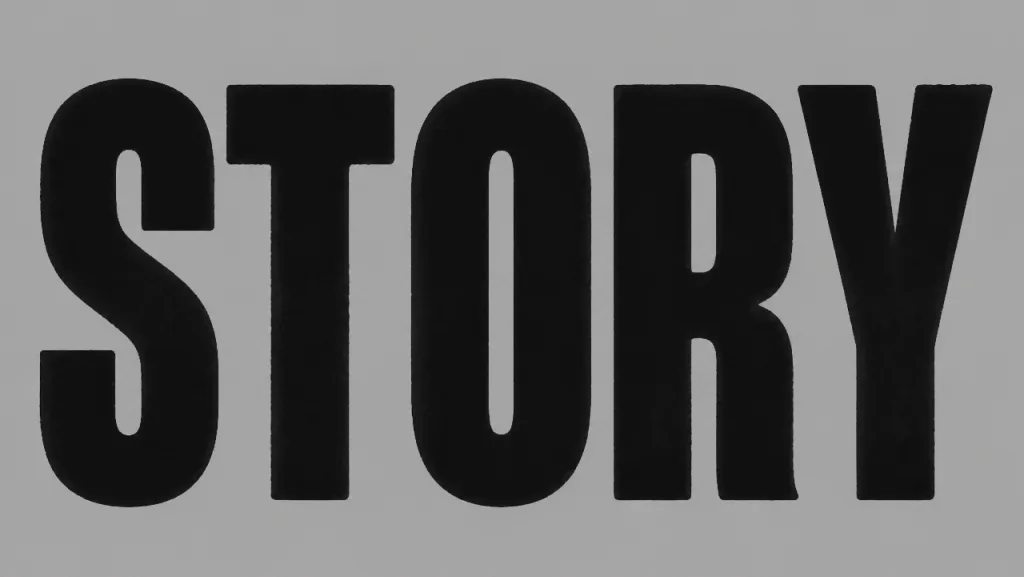
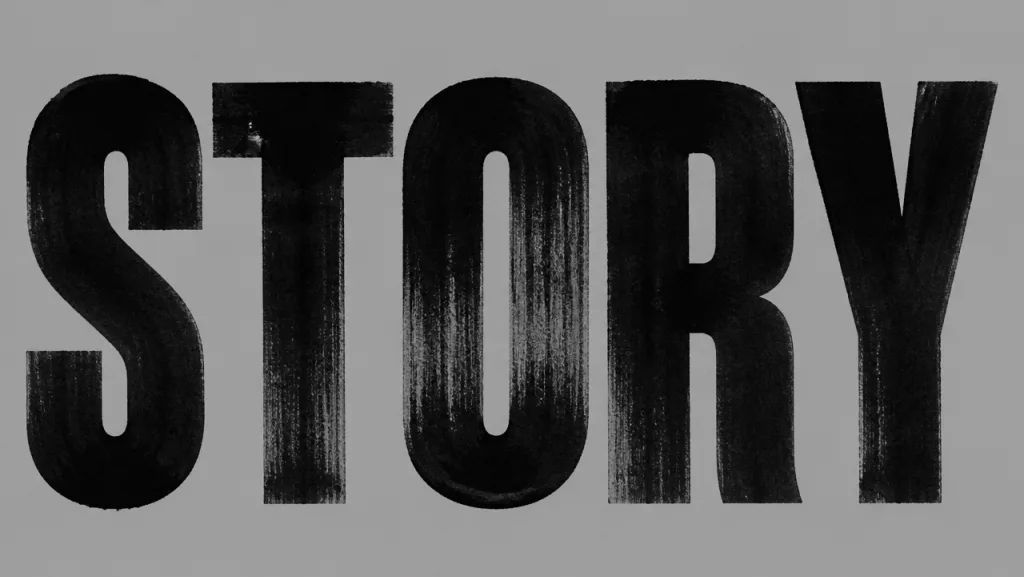
fix(lettering): the handwritten treatment survives being shrunk
At the ~150px tile the picker actually renders, the old swatch read as a
flat black slab — fill grey-level standard deviation 8.5/255. The cause was
in the phrase, not the render: every word of "slightly uneven edges, soft
ink bleed, organic feel" describes the letters' EDGE contour, and
downscaling is a low-pass filter. It destroys contour and keeps variation
across the fill, so the style had no thumbnail-scale signature at all.

So the fix is to the style, not to the picture. Describing the ink INSIDE
the letters raises fill sd to 21.0 and reads as streaky ink at tile size,
while staying the same style close up. Enriching only the swatch prompt
would have made the sample oversell what the style delivers — the owner
picks by eye because he cannot pick by name, so a flattering sample is a
lie he cannot check.

A first attempt using "brush strokes" was rejected: it visibly tapered and
wobbled the terminals, i.e. the treatment axis had begun eating the
letterform axis that FONT_STYLES owns and the user chooses separately.

The swatch cache key includes the style tag, so this self-invalidates any
cached preview.

diff --git a/electron/server/models/thumbnail-styles.ts b/electron/server/models/thumbnail-styles.ts
@@ -44,7 +44,7 @@ export const TEXT_STYLES: Record<string, string> = {
   shadow:          'deep drop shadow, clean solid fill, strong contrast',
   glitch:          'digital glitch effect, RGB split, scan-line texture',
   embossed:        'embossed metallic 3D bevel, subtle gold highlights',
-  handwritten:     'inked finish, slightly uneven edges, soft ink bleed, organic feel',
+  handwritten:     'inked finish, uneven ink density, dry-brush streaks and blotches within the letters, pooled dark edges',
   vintage:         'vintage sepia print, lightly weathered, muted warm tones',
   pastel:          'soft pastel palette, gentle airbrushed glow, dreamlike',
 }
